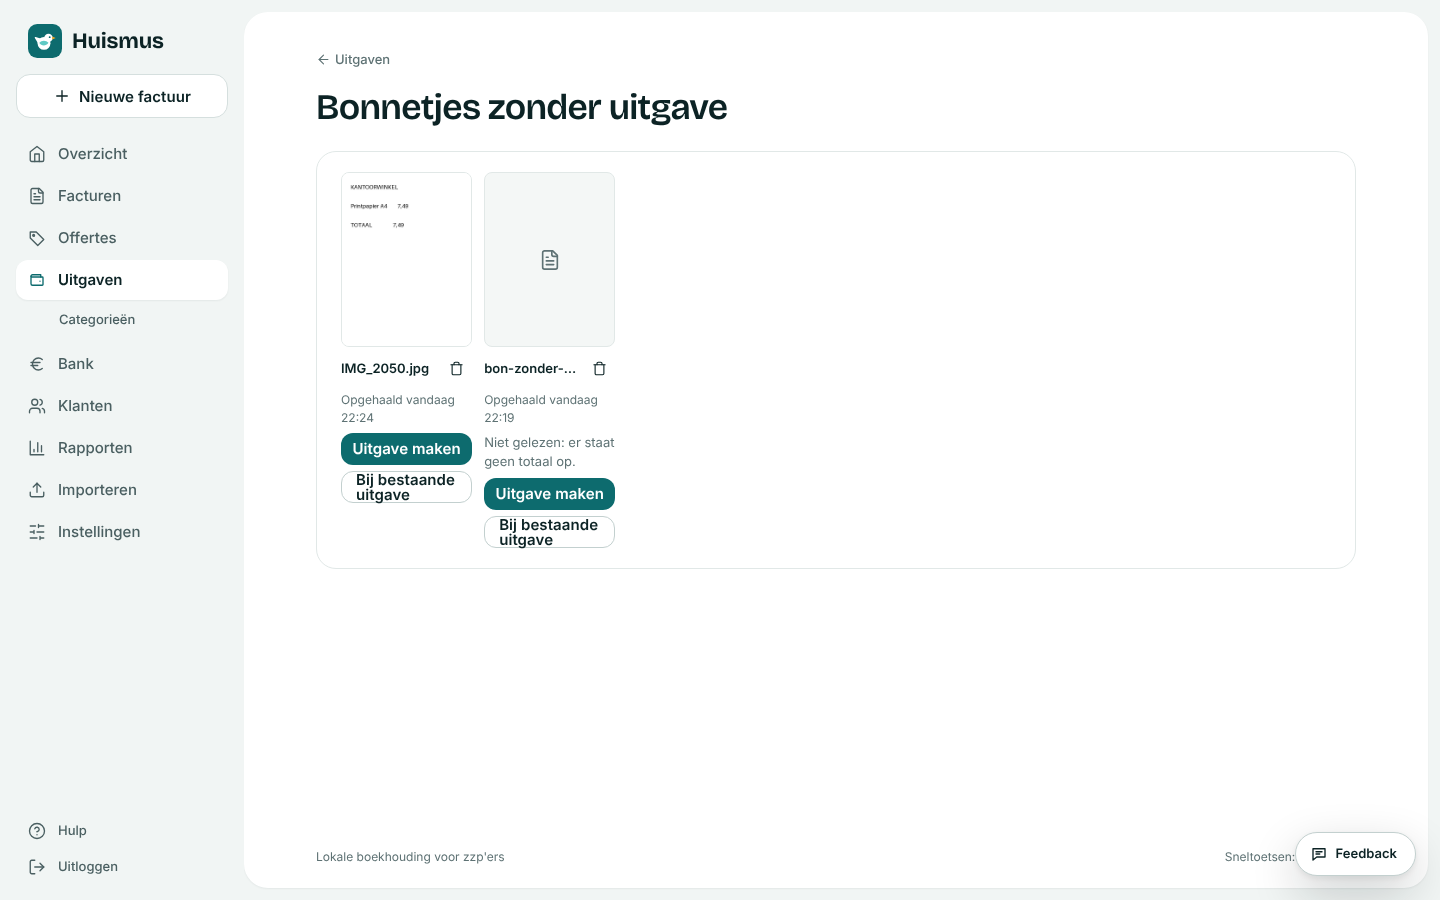
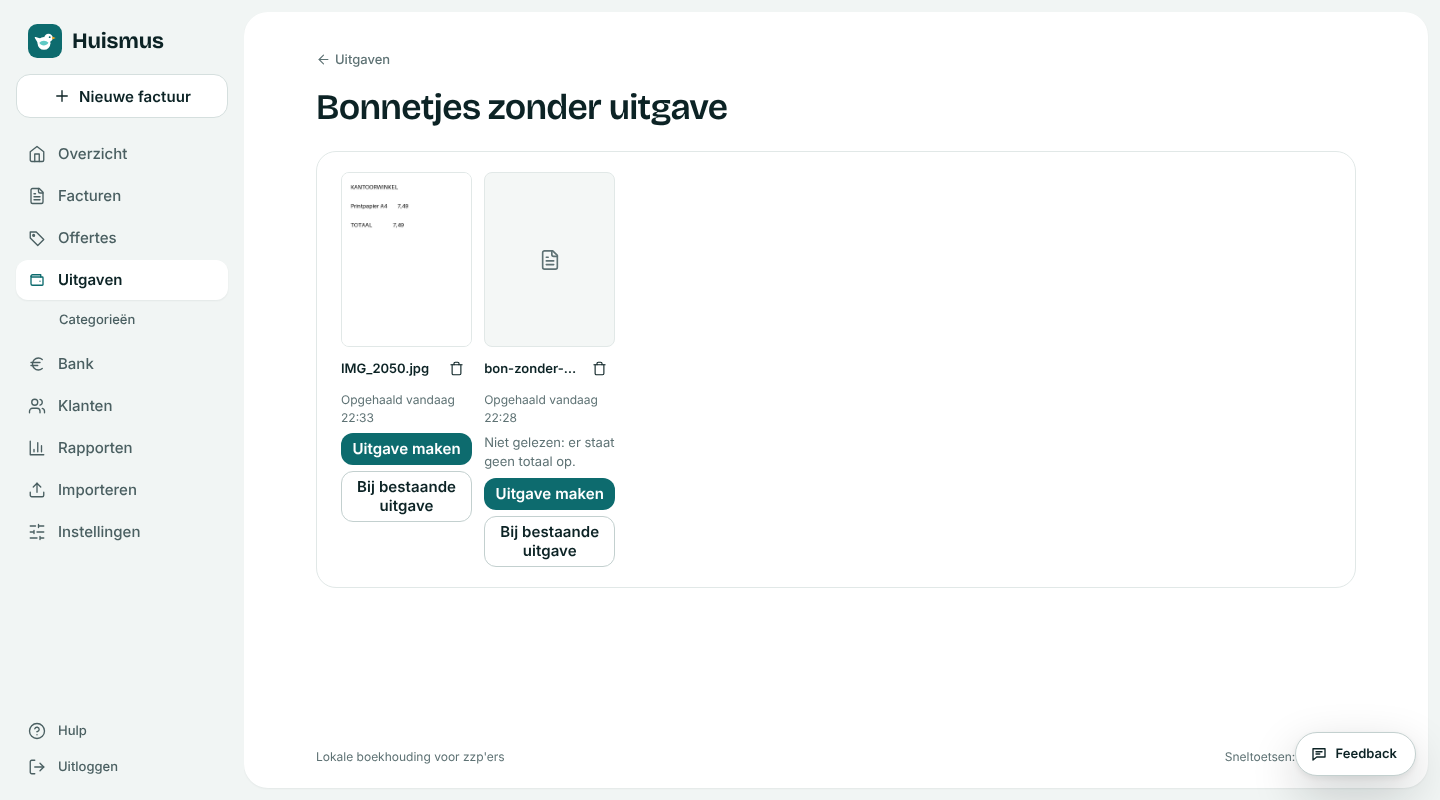
fix(expenses): the tray's second button wraps with room to breathe (#127)
Claude-Session: https://claude.ai/code/session_01W6o7JLSYoazZgMCi8zzGBm

diff --git a/huismus/templates/expenses/tray.html b/huismus/templates/expenses/tray.html
@@ -50,7 +50,7 @@
             {% if item.waiting %}<span class="small muted row" style="gap:var(--s-1)" data-bonnetje-bezig>{% include "core/_bird.svg" %}{% translate "Huismus leest dit bonnetje…" %}</span>
             {% elif item.reason %}<span class="small muted" data-bonnetje-reden>{% if receipt.read_similar %}<a href="{% url 'expenses:edit' receipt.read_similar.pk %}">{{ item.reason }}</a>{% else %}{{ item.reason }}{% endif %}</span>{% endif %}
             <a class="btn btn-primary btn-sm" href="{% url 'expenses:process_item' 'bonnetje' receipt.pk %}">{% translate "Uitgave maken" %}</a>
-            <a class="btn btn-secondary btn-sm" style="white-space:normal" href="{% url 'expenses:tray_attach' receipt.pk %}">{% translate "Bij bestaande uitgave" %}</a>
+            <a class="btn btn-secondary btn-sm" style="white-space:normal;height:auto;min-height:32px;padding-block:6px;line-height:1.25;text-align:center" href="{% url 'expenses:tray_attach' receipt.pk %}">{% translate "Bij bestaande uitgave" %}</a>
         </div>
         <dialog class="dialog" id="verwijder-bon-{{ receipt.pk }}" aria-labelledby="verwijder-bon-{{ receipt.pk }}-titel">
             <form method="post" action="{% url 'expenses:tray_delete' receipt.pk %}">
